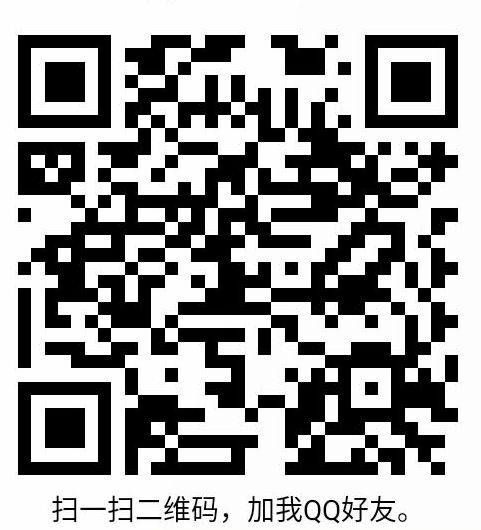
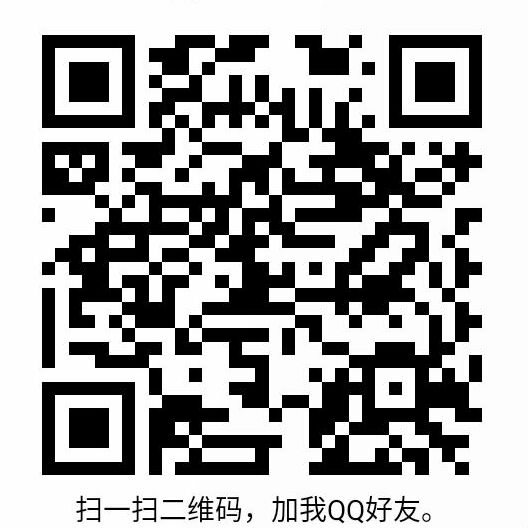
Site updated: 2021-04-29 06:44:48

diff --git a/about/index.html b/about/index.html
@@ -230,7 +230,7 @@
         >
           <i class="iconfont icon-coolapk" aria-hidden="true"></i>
           
-            <img class="qr-img" src="/img/myCoolaok.jpg" srcset="/img/loading.gif" lazyload alt="qrcode" />
+            <img class="qr-img" src="/img/myCoolapk.jpg" srcset="/img/loading.gif" lazyload alt="qrcode" />
           
         </a>
       
